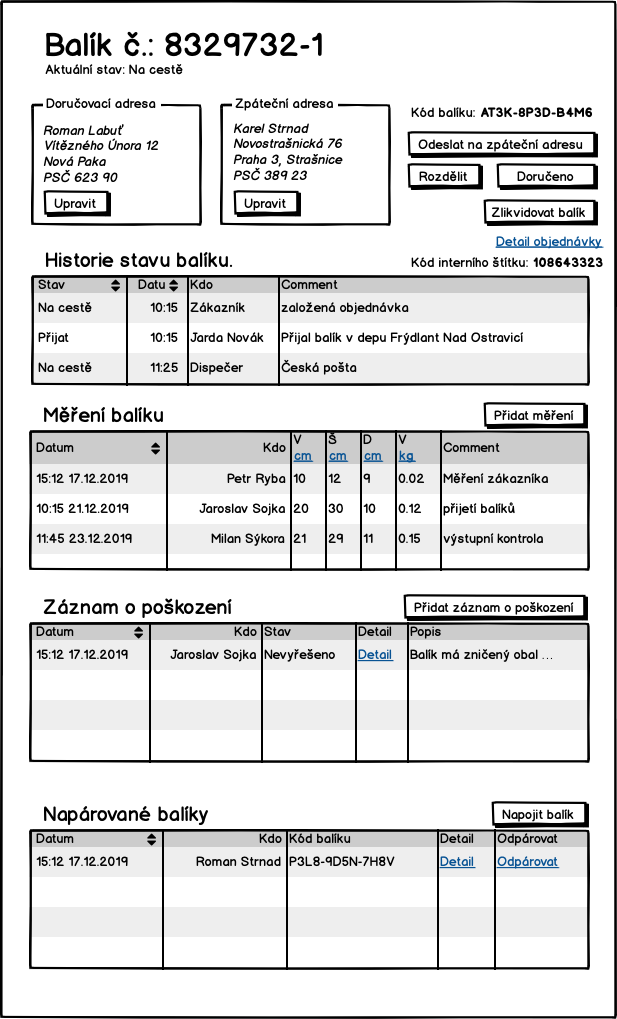
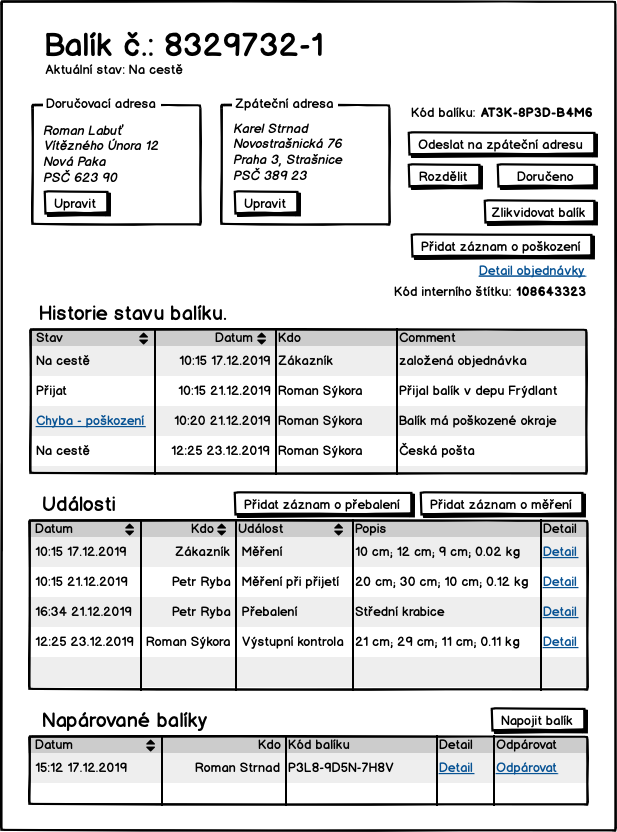
Deployed 8211b5e with MkDocs version: 1.1

diff --git a/uc-20/index.html b/uc-20/index.html
@@ -655,8 +655,8 @@
 <h2 id="uc-24-zpracovani-baliku-v-chybove-fronte"><a name="UC-24"></a>UC-24 - Zpracování balíků v 'chybové' frontě</h2>
 <p>Dispečer v systému otevře stránku pro zpracování chybové fronty. Všechny balíky bude pojednom brát a zpracovávat. V případě problému se spojí s pracovníkem podpory a společně se pokusí domluvit se na dalším postupu. Po tom co dispečer naskenuje interní štítek na <a href="../screens/#S-209">obrazovce S-209 pro načtení interního štítku</a> systém vyhodnotí jestli je balík možné poslat dál, nebo má ještě počkat ve frontě. Případně pomocí <a href="../screens/#S-210">obrazovnky S-210</a> lze požádat dispečera o nějakou další akci s balíkem.</p>
 <p><img alt="Proces zpracování chybových balíků" src="../diagrams/out/uc-24-activity.png" title="Proces zpracování chybových balíků" /></p>
-<p>O každém chybovém balíku je záznam v systému, tedy support o každém balíku ví a může je řešit.</p>
-<p>Nelze předvídat, co vše bude třeba s chybovými balíky dělat. Pracovník podpory to může domluvit s odesílatelem a zde sdělit dispečerovi. Příklad může být, že zákazník chce poškozený balík vyhodit nebo požádal o rozdělení obsah zásilky do dvou balíků. </p>
+<p>O každém chybovém balíku je záznam v systému, tedy systém o každém balíku ví.</p>
+<p>Nelze předvídat, co vše bude třeba s chybovými balíky dělat. Pracovník podpory to může domluvit s odesílatelem a zde sdělit dispečerovi. Příklad může být, že zákazník chce poškozený balík vyhodit nebo požádal o rozdělení obsah zásilky do dvou balíků.</p>
 <h2 id="uc-25-predani-baliku-dopravci"><a name="UC-25"></a>UC-25 - Předání balíků dopravci</h2>
 <p>Před tím než dispečer předá balíky z příslušné fronty dopravci, musí připravit předávací protokol. Dispečer v systému najde příslušnou frontu dopravce a stiskne na ní, že jí chce ukončit. na to mu systém vygeneruje předávací protokol, případně jeho kopii.</p>
 <p>Když pro balíky osobně přijde dopravce, dispečer mu předá balíky a nechá si v protokolu potvrdit předání balíků.</p>

diff --git a/screens/index.html b/screens/index.html
@@ -999,6 +999,8 @@
 <h2 id="s-052-pripojit-balik"><a name="S-052"></a>S-052 - Připojit balík</h2>
 <p><img alt="Připojit balík" src="../imgs/s-052.png" title="Připojit balík" /></p>
 <h2 id="s-053-poskozeni-baliku"><a name="S-053"></a>S-053 - Poškození balíku</h2>
+<p>Obrázky u osob nejsou nutné. Na nahrávání fotek osob není UC.</p>
+<p>Část napárované balíky popisuje stav, kdy přijde balík, který se nepodaří spojit s objednávkou, dispečer balík změří a zváží a opatří interním štítkem. Teprve dodatečně se přijde na to, k jaký to byl balík u jaké objednávky.</p>
 <p><img alt="Poškození balíku" src="../imgs/s-053.png" title="Poškození balíku" /></p>
 <h2 id="s-06-prehled-plateb"><a name="S-06"></a>S-06 - Přehled plateb</h2>
 <p><img alt="Platby" src="../imgs/s-06-payments.png" title="Platby" /></p>

diff --git a/changelog/index.html b/changelog/index.html
@@ -393,6 +393,10 @@
 </thead>
 <tbody>
 <tr>
+<td>01.04.2020</td>
+<td>Úprava detailu balíku.</td>
+</tr>
+<tr>
 <td>30.03.2020</td>
 <td>Řešení chyb u balíku.</td>
 </tr>
